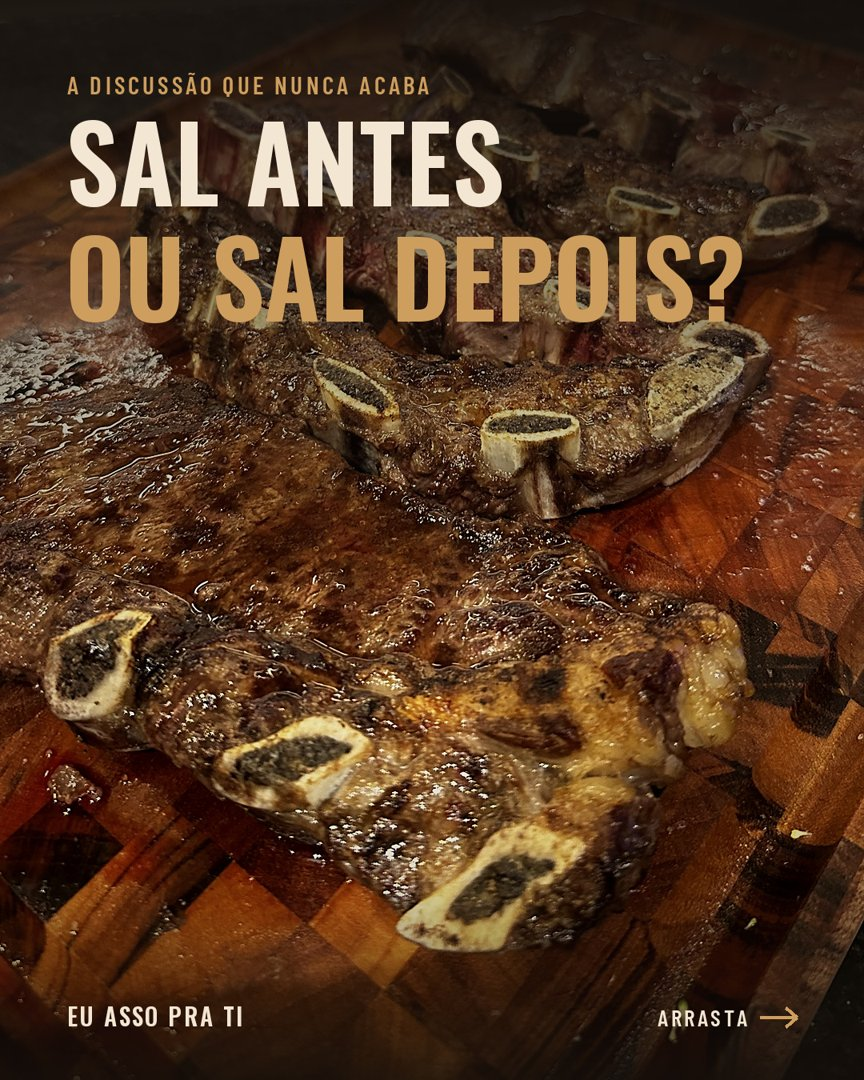
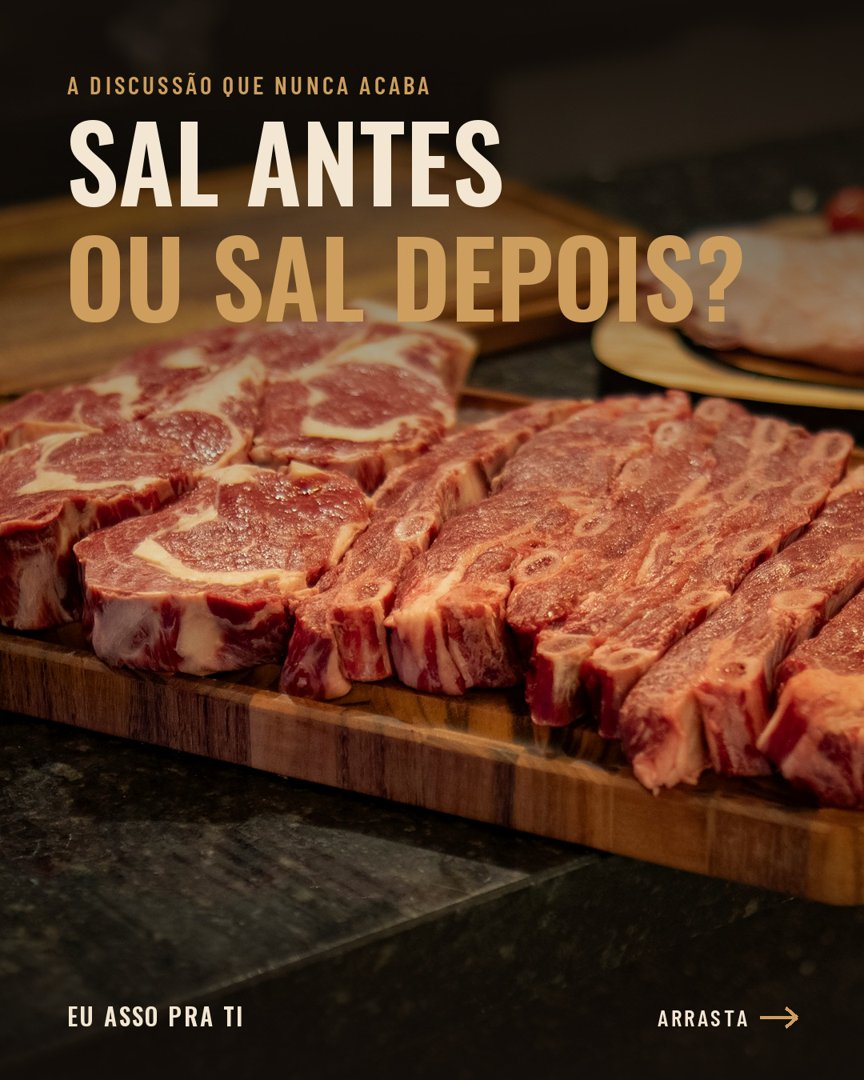
Post 07: capa com os cortes marmorizados

diff --git a/semana/index.html b/semana/index.html
@@ -11,7 +11,7 @@
 --display:"Oswald","Arial Narrow",sans-serif;--label:"Barlow Condensed","Arial Narrow",sans-serif;--text:"Barlow",system-ui,sans-serif;color-scheme:dark}
 *{box-sizing:border-box}
 body{margin:0;background:var(--bg);color:var(--body);font:400 1.0625rem/1.6 var(--text)}
-.hero{position:relative;min-height:min(78vh,620px);display:grid;align-items:end;background:#000 url(img/p5-02.jpg?v=1792423729) center 40%/cover}
+.hero{position:relative;min-height:min(78vh,620px);display:grid;align-items:end;background:#000 url(img/p5-02.jpg?v=1792437218) center 40%/cover}
 .hero::after{content:"";position:absolute;inset:0;background:linear-gradient(180deg,rgba(21,15,11,.2) 0%,rgba(21,15,11,.55) 45%,var(--bg) 100%)}
 .hero .in{position:relative;z-index:1;max-width:760px;margin:0 auto;width:100%;padding:0 20px 36px}
 h1,h2{font-family:var(--display);font-weight:600;text-transform:uppercase;color:var(--fg);line-height:1.05;margin:0;text-wrap:balance}
@@ -81,13 +81,13 @@ footer{font:500 .9rem var(--label);color:var(--muted);letter-spacing:.06em;borde
   <h2>Post 5: gastronomia de fogo</h2>
   <p>Carrossel de 7 imagens: a carne de qualidade, cada uma no seu ponto, os legumes, o fatiado na hora, a sobremesa no fogo e o convite pra conversar.</p>
   <div class="car" aria-label="Imagens do post 5">
-    <img src="img/p5-01.jpg?v=1792423729" alt="Capa: Gastronomia de fogo" loading="lazy">
-    <img src="img/p5-02.jpg?v=1792423729" alt="Carne de qualidade" loading="lazy">
-    <img src="img/p5-03.jpg?v=1792423729" alt="Cada carne no seu ponto" loading="lazy">
-    <img src="img/p5-04.jpg?v=1792423729" alt="Os legumes também vão pro fogo" loading="lazy">
-    <img src="img/p5-05.jpg?v=1792423729" alt="Fatiado na hora" loading="lazy">
-    <img src="img/p5-06.jpg?v=1792423729" alt="E a sobremesa? No fogo, é claro" loading="lazy">
-    <img src="img/p5-07.jpg?v=1792423729" alt="Tem festa vindo aí?" loading="lazy">
+    <img src="img/p5-01.jpg?v=1792437218" alt="Capa: Gastronomia de fogo" loading="lazy">
+    <img src="img/p5-02.jpg?v=1792437218" alt="Carne de qualidade" loading="lazy">
+    <img src="img/p5-03.jpg?v=1792437218" alt="Cada carne no seu ponto" loading="lazy">
+    <img src="img/p5-04.jpg?v=1792437218" alt="Os legumes também vão pro fogo" loading="lazy">
+    <img src="img/p5-05.jpg?v=1792437218" alt="Fatiado na hora" loading="lazy">
+    <img src="img/p5-06.jpg?v=1792437218" alt="E a sobremesa? No fogo, é claro" loading="lazy">
+    <img src="img/p5-07.jpg?v=1792437218" alt="Tem festa vindo aí?" loading="lazy">
   </div>
   <p class="hint">Arrasta para o lado para ver as 7 imagens.</p>
   <details><summary>Ver a legenda</summary><div class="cap">Gastronomia de fogo 🔥 Eu cuido do fogo, tu aproveita a festa.
@@ -114,12 +114,12 @@ Me chama no WhatsApp pelo link da bio ou no (51) 99565-7817 e me conta como tu i
   <h2>Post 6: a tua festa, do teu jeito</h2>
   <p>Aqui não tem cardápio pronto: aniversário em casa, confraternização, casamento e formatura, cada um com o seu jeito. Fecha com "me conta a tua festa".</p>
   <div class="car" aria-label="Imagens do post 6">
-    <img src="img/p6-01.jpg?v=1792423729" alt="Capa: A tua festa, do teu jeito" loading="lazy">
-    <img src="img/p6-02.jpg?v=1792423729" alt="Pra família e os amigos" loading="lazy">
-    <img src="img/p6-03.jpg?v=1792423729" alt="Pra galera da empresa" loading="lazy">
-    <img src="img/p6-04.jpg?v=1792423729" alt="Pro dia que não volta" loading="lazy">
-    <img src="img/p6-05.jpg?v=1792423729" alt="Nada de cardápio pronto" loading="lazy">
-    <img src="img/p6-06.jpg?v=1792423729" alt="Me conta a tua festa" loading="lazy">
+    <img src="img/p6-01.jpg?v=1792437218" alt="Capa: A tua festa, do teu jeito" loading="lazy">
+    <img src="img/p6-02.jpg?v=1792437218" alt="Pra família e os amigos" loading="lazy">
+    <img src="img/p6-03.jpg?v=1792437218" alt="Pra galera da empresa" loading="lazy">
+    <img src="img/p6-04.jpg?v=1792437218" alt="Pro dia que não volta" loading="lazy">
+    <img src="img/p6-05.jpg?v=1792437218" alt="Nada de cardápio pronto" loading="lazy">
+    <img src="img/p6-06.jpg?v=1792437218" alt="Me conta a tua festa" loading="lazy">
   </div>
   <p class="hint">Arrasta para o lado para ver as 6 imagens.</p>
   <details><summary>Ver a legenda</summary><div class="cap">A tua festa, do teu jeito 🔥
@@ -144,7 +144,7 @@ Me chama no WhatsApp pelo link da bio ou no (51) 99565-7817 e me conta a tua fes
 <section>
   <div class="post-head"><p class="k" style="margin:0">Terça 13/10</p><span class="tag done">No ar</span></div>
   <h2>Post 4: o primeiro Reels</h2>
-  <video class="vid" src="video/p4-reels.mp4?v=1792423729" controls playsinline preload="metadata"></video>
+  <video class="vid" src="video/p4-reels.mp4?v=1792437218" controls playsinline preload="metadata"></video>
   <details><summary>Ver a legenda</summary><div class="cap">Quando tu chega, o fogo já tá pronto 🔥
 
 Eu chego bem antes pra preparar tudo: a carne de qualidade separada pra tua festa, o fogo no ponto certinho e tudo saindo da brasa direto pra tábua, servido quentinho pra galera.

diff --git a/calendario/index.html b/calendario/index.html
@@ -11,7 +11,7 @@
 --display:"Oswald","Arial Narrow",sans-serif;--label:"Barlow Condensed","Arial Narrow",sans-serif;--text:"Barlow",system-ui,sans-serif;color-scheme:dark}
 *{box-sizing:border-box}
 body{margin:0;background:var(--bg);color:var(--body);font:400 1.0625rem/1.6 var(--text)}
-.hero{position:relative;min-height:min(78vh,620px);display:grid;align-items:end;background:#000 url(img/p7-01.jpg?v=1792423729) center 45%/cover}
+.hero{position:relative;min-height:min(78vh,620px);display:grid;align-items:end;background:#000 url(img/p7-01.jpg?v=1792437218) center 45%/cover}
 .hero::after{content:"";position:absolute;inset:0;background:linear-gradient(180deg,rgba(21,15,11,.2) 0%,rgba(21,15,11,.55) 45%,var(--bg) 100%)}
 .hero .in{position:relative;z-index:1;max-width:760px;margin:0 auto;width:100%;padding:0 20px 36px}
 h1,h2{font-family:var(--display);font-weight:600;text-transform:uppercase;color:var(--fg);line-height:1.05;margin:0;text-wrap:balance}
@@ -88,13 +88,13 @@ footer{font:500 .9rem var(--label);color:var(--muted);letter-spacing:.06em;borde
   <h2>Post 7: sal antes ou sal depois?</h2>
   <p>Refeito com a tua explicação. Capa com o costelão assado, o fogo da tua churrasqueira, o teu vídeo salgando com sal grosso no time sal antes, e todos os cards na mesma cor quente e premium. Depois: a reação de Maillard, quando salgar antes, quando salgar depois, como tu faz e por que não salgar o corte nobre antes. Fecha com o teu time: depende do corte.</p>
   <div class="car" aria-label="Imagens do post 7">
-    <img src="img/p7-01.jpg?v=1792423729" alt="Capa: Sal antes ou sal depois?" loading="lazy">
-    <img src="img/p7-02.jpg?v=1792423729" alt="A crostinha faz a diferença" loading="lazy">
-    <video src="video/p7-sal.mp4?v=1792423729" autoplay muted loop playsinline style="width:min(78%,330px);flex:none;scroll-snap-align:start;border-radius:8px;aspect-ratio:4/5;object-fit:cover;box-shadow:0 10px 30px rgba(0,0,0,.4)"></video>
-    <img src="img/p7-04.jpg?v=1792423729" alt="Time sal depois" loading="lazy">
-    <img src="img/p7-05.jpg?v=1792423729" alt="Descansa, fatia, salga" loading="lazy">
-    <img src="img/p7-06.jpg?v=1792423729" alt="Sal cedo tira o sabor" loading="lazy">
-    <img src="img/p7-07.jpg?v=1792423729" alt="E eu? Depende do corte" loading="lazy">
+    <img src="img/p7-01.jpg?v=1792437218" alt="Capa: Sal antes ou sal depois?" loading="lazy">
+    <img src="img/p7-02.jpg?v=1792437218" alt="A crostinha faz a diferença" loading="lazy">
+    <video src="video/p7-sal.mp4?v=1792437218" autoplay muted loop playsinline style="width:min(78%,330px);flex:none;scroll-snap-align:start;border-radius:8px;aspect-ratio:4/5;object-fit:cover;box-shadow:0 10px 30px rgba(0,0,0,.4)"></video>
+    <img src="img/p7-04.jpg?v=1792437218" alt="Time sal depois" loading="lazy">
+    <img src="img/p7-05.jpg?v=1792437218" alt="Descansa, fatia, salga" loading="lazy">
+    <img src="img/p7-06.jpg?v=1792437218" alt="Sal cedo tira o sabor" loading="lazy">
+    <img src="img/p7-07.jpg?v=1792437218" alt="E eu? Depende do corte" loading="lazy">
   </div>
   <p class="hint">Arrasta para o lado: 6 imagens e o vídeo do sal grosso.</p>
   <details><summary>Ver a legenda</summary><div class="cap">Sal antes ou sal depois? 🧂🔥
@@ -144,11 +144,11 @@ Agora me conta aqui nos comentários: tu é de qual time? 👇
   <h2>Post 9: antes da tua festa começar</h2>
   <p>O bastidor premium: os cortes separados pro cardápio, o cronograma, o serviço na mesa. Mostra o cuidado que o cliente não vê.</p>
   <div class="car" aria-label="Imagens do post 9">
-    <img src="img/p9-01.jpg?v=1792423729" alt="Capa: Antes da tua festa começar" loading="lazy">
-    <img src="img/p9-02.jpg?v=1792423729" alt="Cada corte separado pra ti" loading="lazy">
-    <img src="img/p9-03.jpg?v=1792423729" alt="O cronograma manda" loading="lazy">
-    <img src="img/p9-04.jpg?v=1792423729" alt="Servido pra galera" loading="lazy">
-    <img src="img/p9-05.jpg?v=1792423729" alt="Me conta a tua" loading="lazy">
+    <img src="img/p9-01.jpg?v=1792437218" alt="Capa: Antes da tua festa começar" loading="lazy">
+    <img src="img/p9-02.jpg?v=1792437218" alt="Cada corte separado pra ti" loading="lazy">
+    <img src="img/p9-03.jpg?v=1792437218" alt="O cronograma manda" loading="lazy">
+    <img src="img/p9-04.jpg?v=1792437218" alt="Servido pra galera" loading="lazy">
+    <img src="img/p9-05.jpg?v=1792437218" alt="Me conta a tua" loading="lazy">
   </div>
   <p class="hint">Arrasta para o lado para ver as 5 imagens.</p>
   <details><summary>Ver a legenda</summary><div class="cap">Antes da tua festa começar, já tem muita coisa acontecendo 🔥
